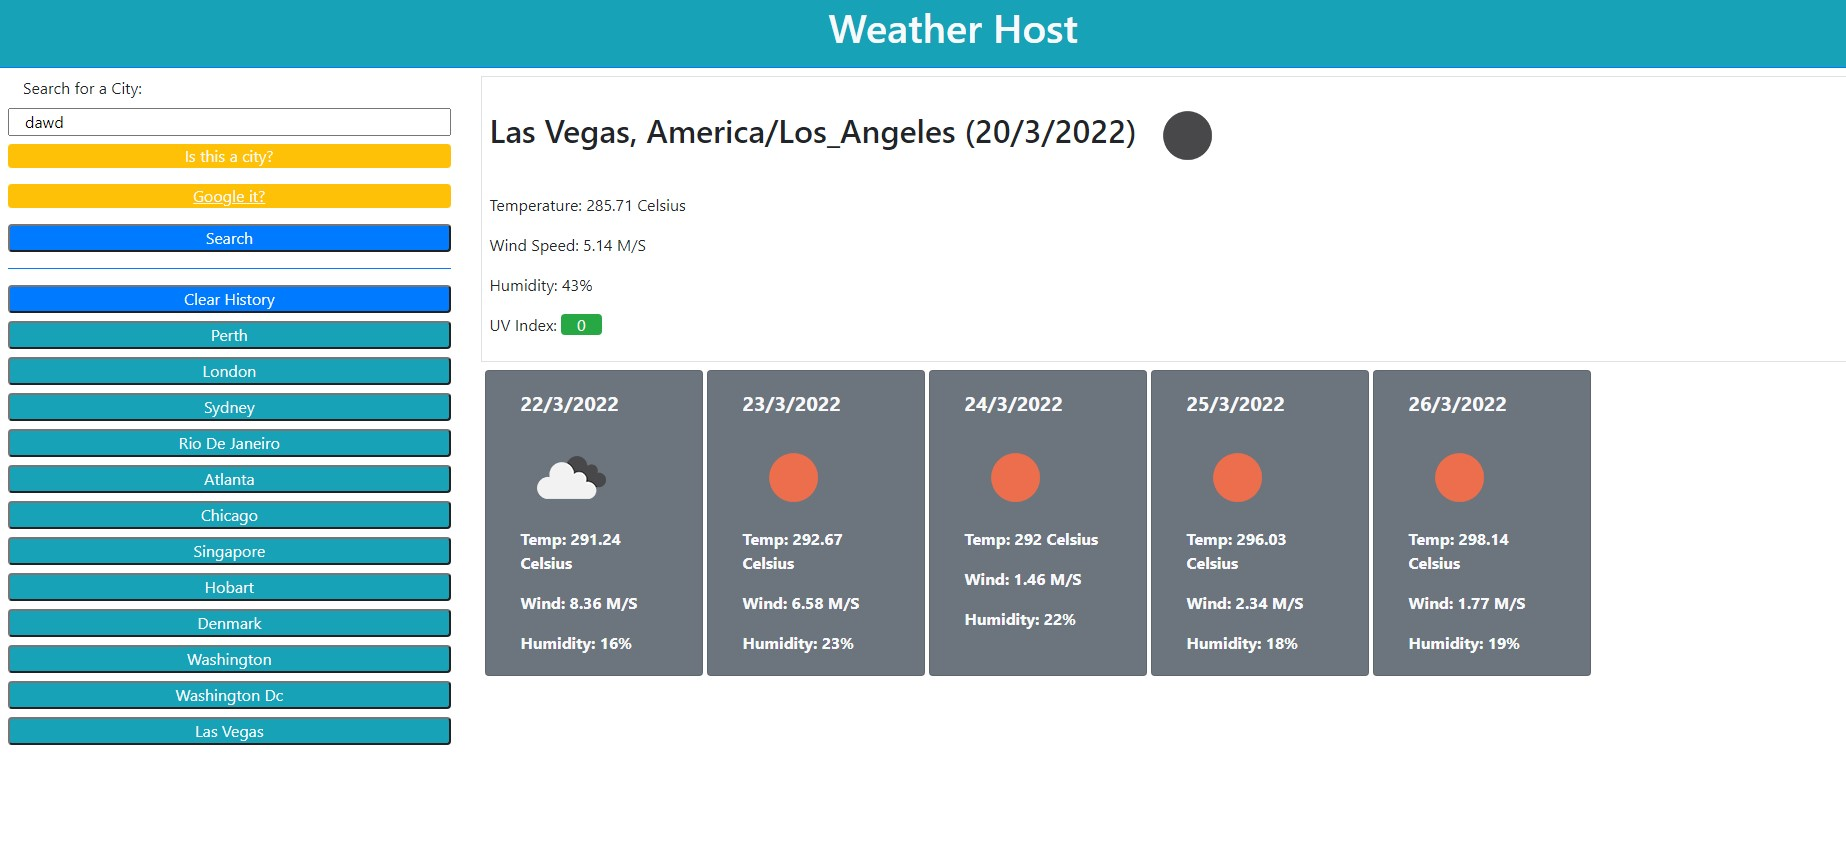
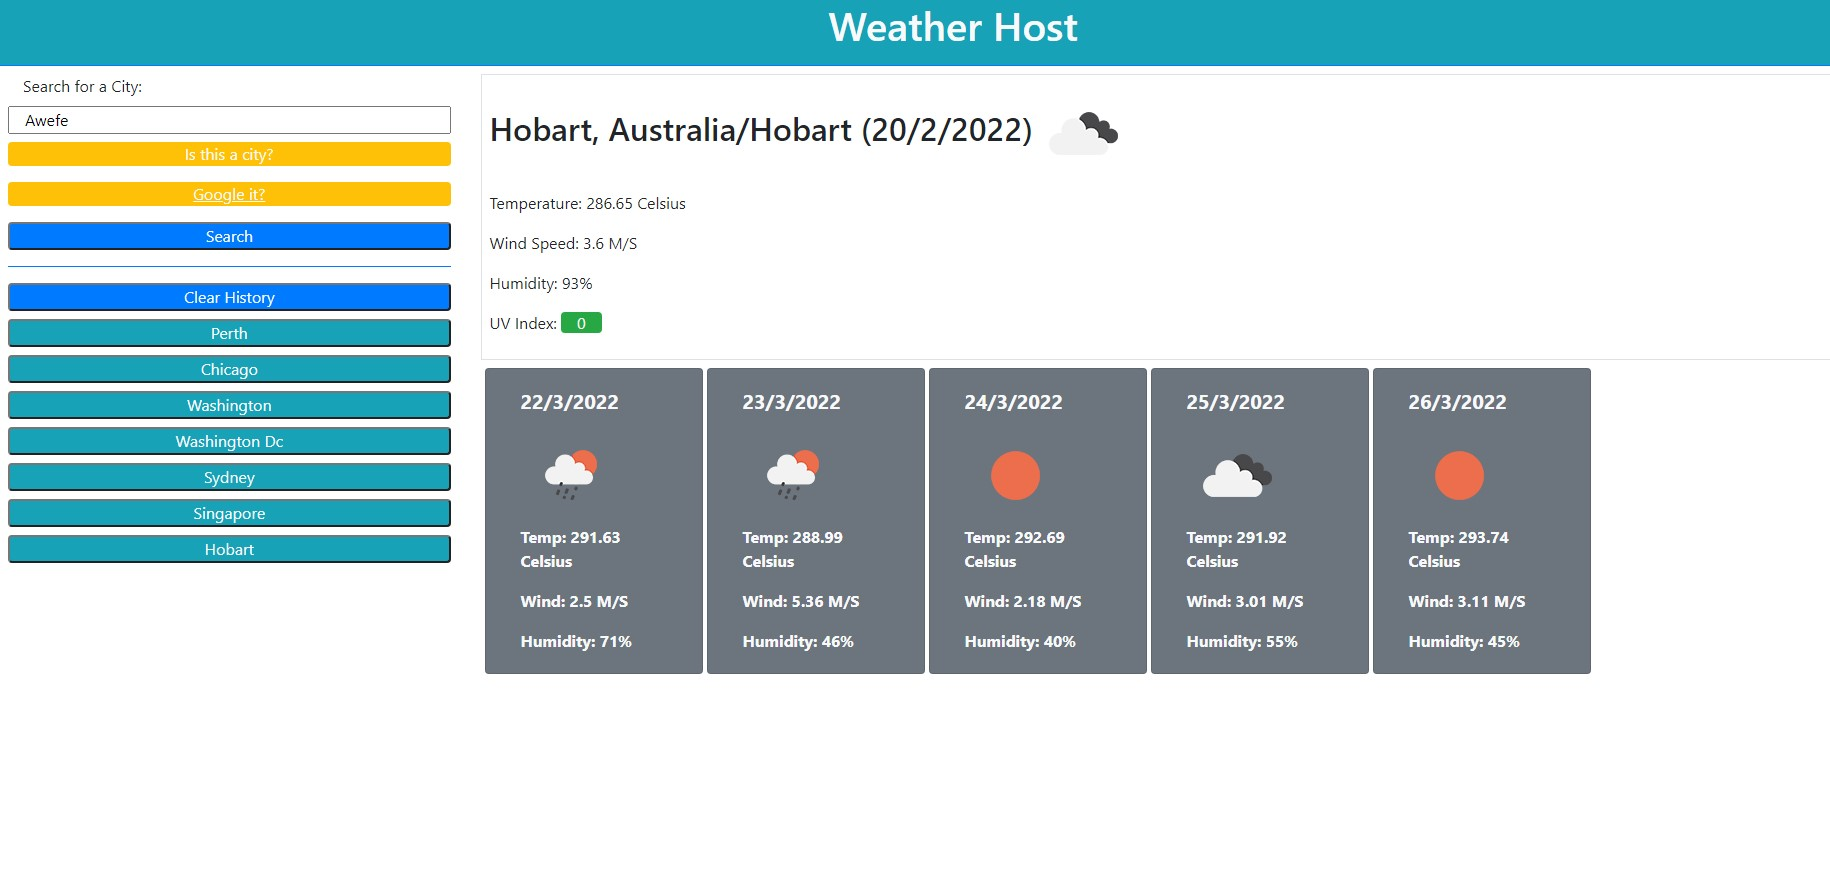
minor updates

Changed region(s): [[0.0, 0.0, 1.0, 0.8934]]

diff --git a/assets/js/script.js b/assets/js/script.js
@@ -143,7 +143,7 @@ const renderInfo = (city, weather) => {
     // <!-- Displayed information for weather -->
         // <!-- City name, date, and weather icon -->
         $("#cityName").text(`${city}, ${weather.timezone} `);
-        $("#searchDate").text(`(${convertUnix(weather.current.dt)})`);
+        $("#searchDate").text(`(${convertUnix(weather.current.dt, 0)})`);
         $("#weatherIcon").attr("src", `${iconURL}${weather.current.weather[0].icon}@2x.png`);
         $("#cityTemp").text(`Temperature: ${weather.current.temp} Celsius`);
         $("#cityWind").text(`Wind Speed: ${weather.current.wind_speed} M/S`);
@@ -168,7 +168,7 @@ const renderInfo = (city, weather) => {
 
     for (let i = 0; i < childArray.length; i++) {
         $(`#${childArray[i].id}`).empty();
-        $(`#${childArray[i].id}`).append(`<h5 class="card-title">${convertUnix(dailyWeather[0].dt)}</h5>`);
+        $(`#${childArray[i].id}`).append(`<h5 class="card-title">${convertUnix(dailyWeather[0].dt, 1)}</h5>`);
         $(`#${childArray[i].id}`).append(`<img src="${iconURL}${dailyWeather[0].weather[0].icon}@2x.png" class="card-text"></img>`);
         $(`#${childArray[i].id}`).append(`<p class="card-text">Temp: ${dailyWeather[0].temp.day} Celsius</p>`);
         $(`#${childArray[i].id}`).append(`<p class="card-text">Wind: ${dailyWeather[0].wind_speed} M/S</p>`);
@@ -208,11 +208,11 @@ const updateHistory = (citySearched) => {
 }
 
 // Convert passed in unix time
-const convertUnix = (unix) => {
+const convertUnix = (unix, num) => {
     let unixDate = unix;
     let date = new Date(unixDate * 1000);
     let day =  `${date.getDate()}`;
-    let month = `${date.getMonth()+1}`;
+    let month = `${date.getMonth()+num}`;
     let year = date.getFullYear();
     let format = `${day}/${month}/${year}`;
     return format;
